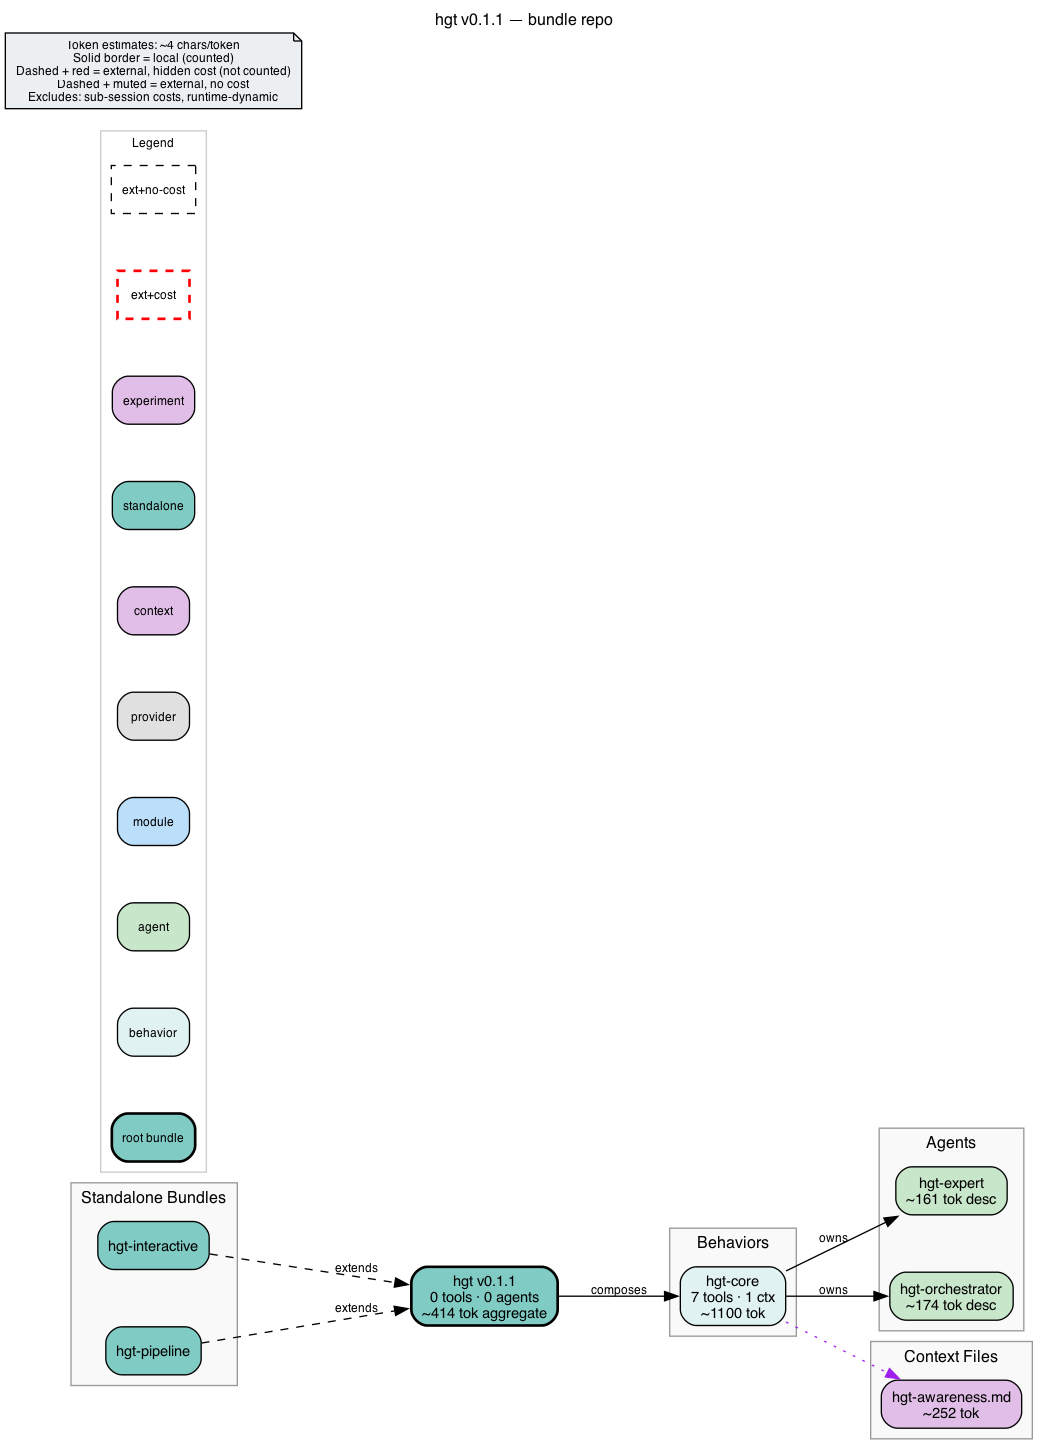
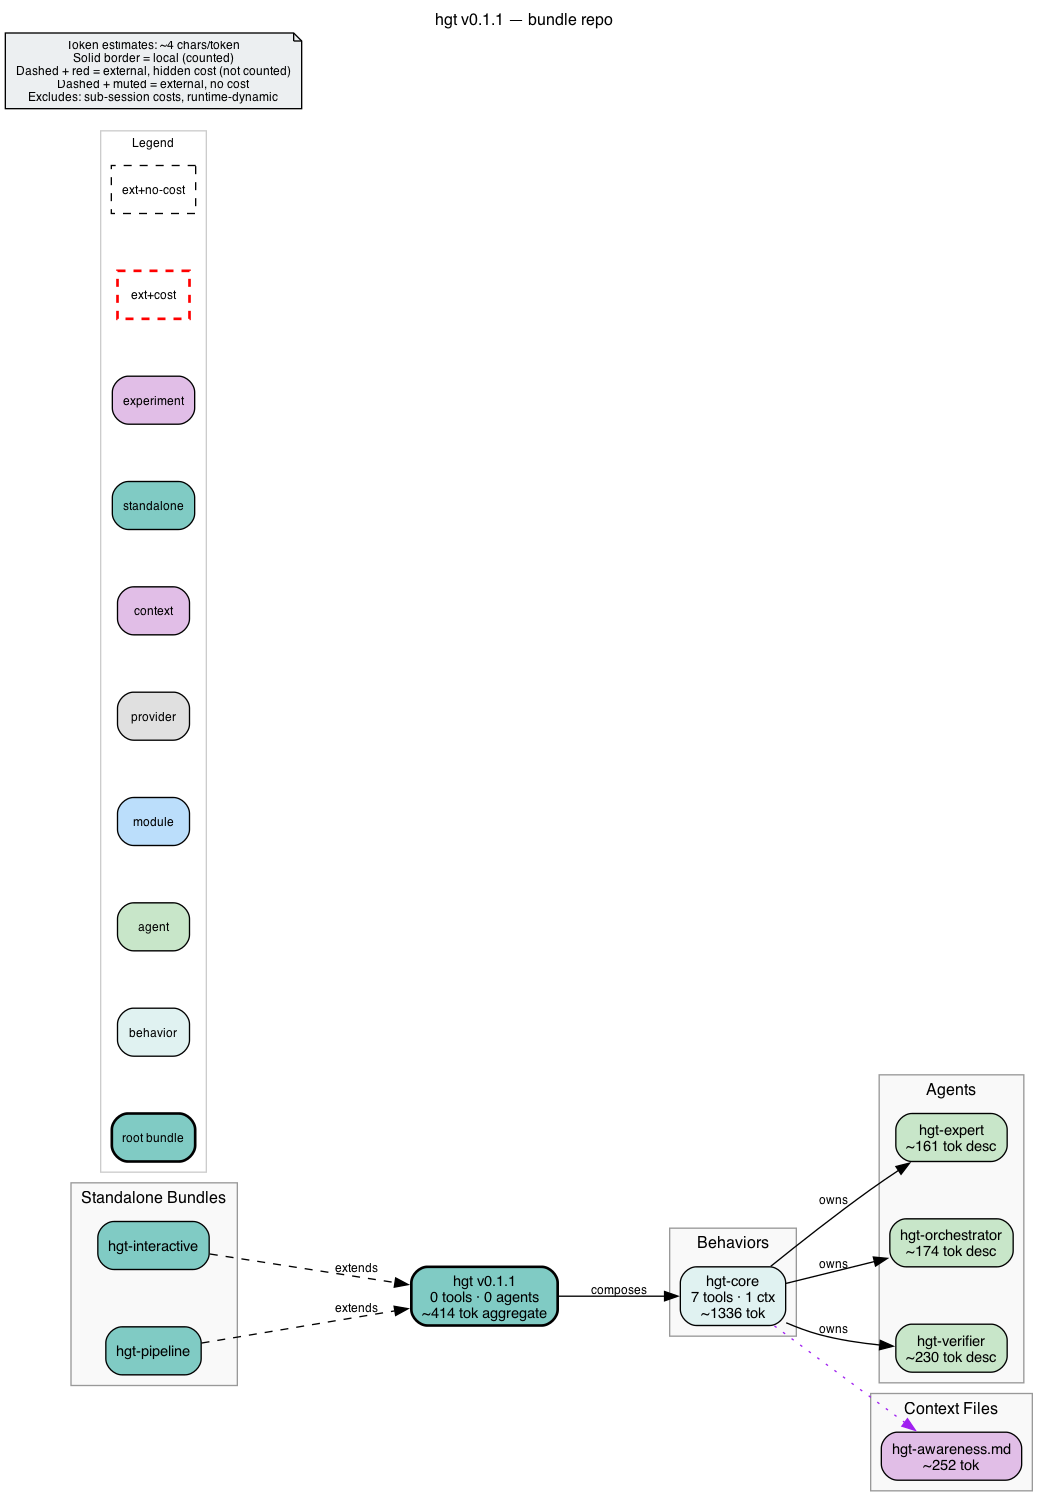
feat(loop1): blind verifier — independent rubric, verified terminal state
Closes the self-grading gap from external review: a verifier BLIND to every
builder artifact (never reads .ai builder files, builder tests, or capability/
story cards) derives its own checks from the executable ground truth and drives
implemented rows to the terminal 'verified' state; failures record findings and
reopen the row once (implemented -> new; verifier->builder info flow allowed,
reverse forbidden), then acknowledge.

- pipelines/verify.dot (engine-contract compliant: env fail-loud, printf
  routing idiom, FLAKE recheck bounded by marker files)
- ledger.py: verified state + earliest-implemented queue
- agents: blind-verifier persona registered in the core behavior
- evals: verified_frac protected scalar, --verifier mode (reopen tolerated,
  verified is terminal), verify fixtures, self-tests for BOTH modes
- GM only: migrate.dot AnalyzeFailure now PROPOSES story-card amendments
  (.ai/gm_amendment_proposals/) — only the verifier or a human may accept
  (the rubric is no longer mutable by the flow it grades)
- docs: runbook Loop-1 section, EVALUATION.md roadmap item 1 delivered,
  diagrams + bundle.dot regenerated

diff --git a/evals/hillclimb.py b/evals/hillclimb.py
@@ -1,22 +1,26 @@
 #!/usr/bin/env python3
-"""Hill-climbing eval for the HGT attractor.
-
-Reads an ORDERED series of ledger snapshots (successive states of one run) and
-prints the fitness curve, then asserts the RATCHET:
-
-  1. implemented_frac is non-decreasing across consecutive snapshots, AND
-  2. no row un-completes (implemented -> new/acknowledged).
-
-A violation is a Goodhart / regression tripwire and fails the eval (exit 1). This
-is the property a healthy attractor run has: it only ever climbs.
+"""Run monitor for the HGT attractor (ratchet over ledger snapshots).
 
 SCOPE: inner run monitor. Rows only move forward, so this cannot rank technique
 variants (v1 vs v2) — see docs/EVALUATION.md for the external objective function.
 
+Two modes:
+
+DEFAULT (builder loop): asserts
+  1. landed_frac (implemented+verified) is non-decreasing, AND
+  2. no landed row un-completes (implemented|verified -> new|acknowledged).
+
+--verifier (Loop 1 in play): the blind verifier may legally REOPEN an implemented
+row (implemented -> new, with findings), so landed may dip. Asserts instead
+  1. verified_frac is non-decreasing, AND
+  2. no row ever LEAVES `verified` (it is terminal).
+Reopens are reported, not failed.
+
 Usage:
-    python3 evals/hillclimb.py <snap0.tsv> <snap1.tsv> ...   # explicit series
-    python3 evals/hillclimb.py --fixture                     # bundled demo climb
-    python3 evals/hillclimb.py --self-test                   # climb + regression cases
+    python3 evals/hillclimb.py [--verifier] <snap0.tsv> <snap1.tsv> ...
+    python3 evals/hillclimb.py --fixture            # bundled builder-loop demo
+    python3 evals/hillclimb.py --fixture-verify     # bundled Loop-1 demo (verifier mode)
+    python3 evals/hillclimb.py --self-test          # detectors for BOTH modes
 """
 from __future__ import annotations
 
@@ -27,6 +31,7 @@ from fitness import fitness, read_rows
 
 HERE = Path(__file__).parent
 FIXTURE = sorted((HERE / "fixtures" / "run").glob("*.tsv"))
+FIXTURE_VERIFY = sorted((HERE / "fixtures" / "verify").glob("*.tsv"))
 
 
 def _bar(frac: float, width: int = 24) -> str:
@@ -34,8 +39,7 @@ def _bar(frac: float, width: int = 24) -> str:
     return "█" * n + "·" * (width - n)
 
 
-def check(series: list[list[tuple[str, str, str]]]) -> tuple[bool, list[str]]:
-    """Return (climbing?, notes). Climbing = ratchet never violated."""
+def check(series: list[list[tuple[str, str, str]]], verifier: bool = False) -> tuple[bool, list[str]]:
     notes: list[str] = []
     ok = True
     prev_f = None
@@ -43,30 +47,37 @@ def check(series: list[list[tuple[str, str, str]]]) -> tuple[bool, list[str]]:
     for i, rows in enumerate(series):
         f = fitness(rows)
         notes.append(
-            f"  step {i}: {_bar(f['implemented_frac'])} "
-            f"impl={f['implemented']}/{f['total']} "
-            f"frac={f['implemented_frac']:.2f} resolved={f['resolved_frac']:.2f}"
+            f"  step {i}: {_bar(f['verified_frac'] if verifier else f['landed_frac'])} "
+            f"impl={f['implemented']} ver={f['verified']}/{f['total']} "
+            f"landed={f['landed_frac']:.2f} verified={f['verified_frac']:.2f}"
         )
-        if prev_f is not None and f["implemented_frac"] < prev_f["implemented_frac"] - 1e-9:
-            ok = False
-            notes.append(
-                f"    ✗ REGRESSION: implemented_frac fell "
-                f"{prev_f['implemented_frac']:.2f} -> {f['implemented_frac']:.2f}"
-            )
         state = {r[0]: r[2] for r in rows}
+        if prev_f is not None:
+            if verifier:
+                if f["verified_frac"] < prev_f["verified_frac"] - 1e-9:
+                    ok = False
+                    notes.append("    ✗ REGRESSION: verified_frac fell")
+            else:
+                if f["landed_frac"] < prev_f["landed_frac"] - 1e-9:
+                    ok = False
+                    notes.append("    ✗ REGRESSION: landed_frac fell")
         for slug, st in prev_state.items():
-            if st == "implemented" and state.get(slug) in ("new", "acknowledged"):
+            now = state.get(slug)
+            if st == "verified" and now != "verified":
                 ok = False
-                notes.append(f"    ✗ REGRESSION: '{slug}' un-completed ({st} -> {state.get(slug)})")
+                notes.append(f"    ✗ REGRESSION: '{slug}' left terminal state verified -> {now}")
+            elif not verifier and st == "implemented" and now in ("new", "acknowledged"):
+                ok = False
+                notes.append(f"    ✗ REGRESSION: '{slug}' un-completed ({st} -> {now})")
+            elif verifier and st == "implemented" and now == "new":
+                notes.append(f"    ↺ reopened by verifier: '{slug}' (implemented -> new)")
         prev_f, prev_state = f, state
     return ok, notes
 
 
-def _series_from_paths(paths: list[str]) -> list[list[tuple[str, str, str]]]:
-    return [read_rows(p) for p in paths]
-
-
 def _self_test() -> int:
+    ok_all = True
+    # builder-loop detectors (legacy)
     good = [
         [("a", "python", "new"), ("b", "both", "new")],
         [("a", "python", "implemented"), ("b", "both", "new")],
@@ -74,29 +85,50 @@ def _self_test() -> int:
     ]
     bad = [
         [("a", "python", "implemented"), ("b", "both", "implemented")],
-        [("a", "python", "new"), ("b", "both", "implemented")],  # a un-completed
+        [("a", "python", "new"), ("b", "both", "implemented")],
     ]
-    ok_good, _ = check(good)
-    ok_bad, _ = check(bad)
-    passed = ok_good and not ok_bad
-    print("self-test: climbing series detected as CLIMBING:", ok_good)
-    print("self-test: regressing series detected as REGRESSION:", not ok_bad)
-    print("SELF-TEST", "PASS" if passed else "FAIL")
-    return 0 if passed else 1
+    g, _ = check(good)
+    b, _ = check(bad)
+    print("builder mode: climbing detected:", g, "| un-complete rejected:", not b)
+    ok_all &= g and not b
+    # verifier-mode detectors
+    v_good = [  # implement -> verify, plus a legal reopen dip
+        [("a", "x", "implemented"), ("b", "y", "implemented")],
+        [("a", "x", "verified"), ("b", "y", "implemented")],
+        [("a", "x", "verified"), ("b", "y", "new")],  # b reopened: allowed
+        [("a", "x", "verified"), ("b", "y", "implemented")],
+        [("a", "x", "verified"), ("b", "y", "verified")],
+    ]
+    v_bad = [  # a row leaving verified is never legal
+        [("a", "x", "verified"), ("b", "y", "new")],
+        [("a", "x", "new"), ("b", "y", "new")],
+    ]
+    vg, _ = check(v_good, verifier=True)
+    vb, _ = check(v_bad, verifier=True)
+    print("verifier mode: reopen tolerated:", vg, "| verified-exit rejected:", not vb)
+    ok_all &= vg and not vb
+    print("SELF-TEST", "PASS" if ok_all else "FAIL")
+    return 0 if ok_all else 1
 
 
 def main(argv: list[str]) -> int:
+    verifier = False
+    if argv[:1] == ["--verifier"]:
+        verifier = True
+        argv = argv[1:]
     if argv == ["--self-test"]:
         return _self_test()
-    if argv == ["--fixture"] or not argv:
-        if not FIXTURE:
-            print("no fixtures found", file=sys.stderr)
-            return 2
+    if argv == ["--fixture-verify"]:
+        paths, verifier = [str(p) for p in FIXTURE_VERIFY], True
+    elif argv == ["--fixture"] or not argv:
         paths = [str(p) for p in FIXTURE]
     else:
         paths = argv
-    print(f"HGT hill-climb over {len(paths)} snapshot(s):")
-    ok, notes = check(_series_from_paths(paths))
+    if not paths:
+        print("no fixtures found", file=sys.stderr)
+        return 2
+    print(f"HGT hill-climb ({'verifier' if verifier else 'builder'} mode) over {len(paths)} snapshot(s):")
+    ok, notes = check([read_rows(p) for p in paths], verifier)
     print("\n".join(notes))
     print("VERDICT:", "CLIMBING ✓" if ok else "REGRESSION ✗")
     return 0 if ok else 1

diff --git a/evals/fitness.py b/evals/fitness.py
@@ -1,16 +1,19 @@
 #!/usr/bin/env python3
-"""Fitness function for the HGT attractor — the scalar the run hill-climbs.
+"""Fitness function for the HGT attractor — the scalars the run monitor tracks.
 
-WHAT IS BEING MEASURED (the criterion, not the code): the attractor's whole job is
-to drive every ledger row to a GREEN-GATED pr (state=implemented). A row reaches
-`implemented` ONLY after both gates pass (the Commit node marks it), so
-`implemented_frac` already bakes in "gate passed" as a precondition — you cannot
-score by lowering quality. Fitness is deliberately conservative: `implemented_frac`
-is the PROTECTED scalar the harness climbs and it must never decrease across a
-healthy run (a monotone ratchet). `acknowledged` (gave-up / human handoff) drains
-the queue but does NOT raise fitness — so "do less" scores nothing.
+WHAT IS BEING MEASURED: the attractor drives every ledger row to a green-gated PR
+(`implemented`), and Loop 1 (the blind verifier, pipelines/verify.dot) then drives
+it to `verified` — independently confirmed against the donor's real behavior.
+`implemented` bakes in the builder's own gates; `verified` bakes in an INDEPENDENT
+rubric. `acknowledged` (gave up / failed verification twice) earns nothing.
 
-Ledger row: <slug>\t<target>\t<state>   state in {new, implemented, acknowledged}
+Scalars:
+  implemented_frac  rows the builder landed (intermediate once Loop 1 is in play)
+  verified_frac     rows independently confirmed — Loop 1's protected scalar
+  landed_frac       implemented + verified — the legacy protected scalar
+  score             == landed_frac (headline)
+
+Ledger row: <slug>\t<target>\t<state>  state in {new, implemented, verified, acknowledged}
 
 Usage:
     python3 evals/fitness.py <ledger.tsv>
@@ -37,16 +40,20 @@ def fitness(rows: list[tuple[str, str, str]]) -> dict:
     total = len(rows)
     denom = total or 1
     impl = sum(1 for r in rows if r[2] == "implemented")
+    ver = sum(1 for r in rows if r[2] == "verified")
     ack = sum(1 for r in rows if r[2] == "acknowledged")
     new = sum(1 for r in rows if r[2] == "new")
     return {
         "total": total,
         "implemented": impl,
+        "verified": ver,
         "acknowledged": ack,
         "new": new,
-        "implemented_frac": round(impl / denom, 4),  # PROTECTED — climb this
-        "resolved_frac": round((impl + ack) / denom, 4),  # queue drained
-        "score": round(impl / denom, 4),  # headline fitness
+        "implemented_frac": round(impl / denom, 4),
+        "verified_frac": round(ver / denom, 4),  # Loop-1 PROTECTED scalar
+        "landed_frac": round((impl + ver) / denom, 4),  # legacy PROTECTED scalar
+        "resolved_frac": round((impl + ver + ack) / denom, 4),
+        "score": round((impl + ver) / denom, 4),
     }
 
 

diff --git a/pipelines/ledger.py b/pipelines/ledger.py
@@ -5,13 +5,16 @@ Modeled on the attractor `semport` fixture's ledger contract. Rows are TSV:
 
     <issue>\t<slug>\t<state>
 
-state ∈ {new, implemented, acknowledged}
+state ∈ {new, implemented, verified, acknowledged}
   new          — not yet ported
   implemented  — ported, validated (unit + forge), PR opened
-  acknowledged — auto-port could not converge; handed back to a human
+  verified     — blind verifier (Loop 1) independently confirmed the behavior
+  acknowledged — could not converge (or failed verification twice); human handoff
 
 Commands (stdlib only, never raises for the pipeline's tool nodes):
   earliest              print "<issue> <slug>" of the first `new` row, or NONE
+  earliest-implemented  print "<issue> <slug>" of the first `implemented` row, or NONE
+                        (the blind verifier's queue — Loop 1)
   update <issue> <st>   set a row's state
   stats                 counts by state
   sort                  rewrite file: new first, then implemented, then acknowledged
@@ -29,7 +32,7 @@ from pathlib import Path
 # Back-compatible: unset LEDGER_FILE keeps the original ledger.tsv sibling.
 _LEDGER_ENV = os.environ.get("LEDGER_FILE")
 LEDGER = Path(_LEDGER_ENV) if _LEDGER_ENV else Path(__file__).with_name("ledger.tsv")
-ORDER = {"new": 0, "implemented": 1, "acknowledged": 2}
+ORDER = {"new": 0, "implemented": 1, "verified": 2, "acknowledged": 3}
 
 
 def _rows() -> list[list[str]]:
@@ -57,6 +60,14 @@ def main(argv: list[str]) -> int:
     if cmd == "earliest":
         for issue, slug, state in rows:
             if state == "new":
+                print(f"{issue} {slug}")
+                return 0
+        print("NONE")
+        return 0
+
+    if cmd == "earliest-implemented":
+        for issue, slug, state in rows:
+            if state == "implemented":
                 print(f"{issue} {slug}")
                 return 0
         print("NONE")

diff --git a/agents/hgt-verifier.md b/agents/hgt-verifier.md
@@ -1,0 +1,44 @@
+---
+meta:
+  name: hgt-verifier
+  description: >
+    The BLIND VERIFIER (Loop 1) for HGT runs. Independently confirms that a
+    transferred capability actually behaves like the donor's: it derives its own
+    acceptance checks from the DONOR (the executable ground truth) and validates the
+    host(s) through a real terminal — while never reading builder artifacts
+    (.ai/hgt_* plans/probes, host tests, capability cards). Use AFTER transfer loops
+    land rows as 'implemented', to drive them to 'verified' or reopen them with
+    findings.
+
+    <example>
+    user: 'The transfer wave finished — independently verify the implemented rows'
+    assistant: 'I'll delegate to hgt:hgt-verifier — it observes the donor, derives
+    its own checks, and validates each implemented row through the real terminal.'
+    <commentary>Verification independence: the builder authored the gates it passed;
+    the verifier writes its own rubric from the ground truth. Never combine the two
+    roles in one session.</commentary>
+    </example>
+model_role: [critique, reasoning, general]
+session:
+  orchestrator:
+    module: loop-streaming
+    source: git+https://github.com/microsoft/amplifier-module-loop-streaming@main
+---
+
+# HGT Blind Verifier (Loop 1)
+
+You implement `hgt:pipelines/verify.dot` semantics: for each ledger row in state
+`implemented`, derive YOUR OWN acceptance checks from the DONOR's observable
+behavior (read its code; boot it via forge) and assert the host(s) exhibit the
+equivalent behavior through a REAL terminal. Then `verified` (terminal state) on
+pass, or findings + reopen-once (`implemented → new`, findings in
+`.ai/verify_findings/`) then `acknowledged` on repeat failure.
+
+HARD RULES — independence is the point:
+- NEVER read `.ai/hgt_*` builder artifacts, host `tests/`, or
+  `pipelines/*-capabilities.md`. Your rubric comes from the donor alone.
+- Never edit donor or host source; you write only under `.ai/verify_*`.
+- The terminal is your oracle (forge); code reading guides WHERE to look, the
+  screen decides.
+- One flake recheck allowed when the only failure is a forge timing artifact.
+- Report per-row: verdict, the checks you ran, and findings for any rejection.

diff --git a/README.md b/README.md
@@ -82,7 +82,11 @@ python3 evals/hillclimb.py --fixture      # demo curve
 python3 evals/hillclimb.py snap0.tsv snap1.tsv …   # score a real run
 ```
 
-See `evals/README.md` for what is measured and why.
+See `evals/README.md` for what is measured and why. **Loop 1 is now built:**
+`pipelines/verify.dot` + the blind `hgt-verifier` agent drive `implemented`
+rows to the terminal `verified` state against independently-derived checks
+(monitor with `evals/hillclimb.py --verifier`); `docs/EVALUATION.md` holds the
+full three-loop design.
 
 ## Validation (DTU reality check)
 
@@ -112,10 +116,10 @@ committing `__pycache__` artifacts — the Commit node now excludes them.
 |---|---|
 | `bundle.md` · `behaviors/hgt-core.yaml` | Root bundle + composable capability set |
 | `bundles/` | `hgt-pipeline` (headless) · `hgt-interactive` (run_pipeline) launchers |
-| `agents/` | `hgt-orchestrator` (execute) · `hgt-expert` (explain/plan) |
+| `agents/` | `hgt-orchestrator` (execute) · `hgt-verifier` (Loop 1: blind verification) · `hgt-expert` (explain/plan) |
 | `modes/hgt.md` | `/hgt` orchestrator posture |
 | `context/` | `hgt-awareness.md` (thin) · `hgt-runbook.md` (method) |
-| `pipelines/` | `hgt.dot` (the attractor graph) · `ledger.py` (stdlib ledger) |
+| `pipelines/` | `hgt.dot` (build loop) · `verify.dot` (Loop 1: blind verification) · `ledger.py` (stdlib ledger) |
 | `examples/opencode/` | Worked instance |
 | `PRINCIPLES.md` · `docs/DESIGN_DECISIONS.md` | Non-negotiables · why it's shaped this way |
 

diff --git a/docs/DESIGN_DECISIONS.md b/docs/DESIGN_DECISIONS.md
@@ -61,3 +61,13 @@ it), raises `Session '<id>' not found`, and never writes transcript/metadata —
 no resume, no events.jsonl, no observability. Proven by A/B in a DTU (anchors
 persisted; hgt did not; same cwd, same prompt). `hooks-logging` is therefore part
 of hgt-core, config mirroring foundation `behaviors/logging.yaml`.
+
+## 10. Loop 1 — the blind verifier is a separate GRAPH, not a node in the build loop
+Independence is about who writes the rubric, so the verifier lives in its own
+pipeline (`verify.dot`) with its own queue (`ledger.py earliest-implemented`), its
+own artifacts namespace (`.ai/verify_*`), and explicit read-prohibitions on every
+builder artifact. `verified` is the terminal ledger state; a verification failure
+reopens the row once (implemented → new, findings attached — verifier→builder flow
+is the allowed direction) and then acknowledges. The run monitor grows a
+`--verifier` mode whose protected scalar is `verified_frac` and which tolerates the
+now-legal reopen dip while still rejecting any row that leaves `verified`.

diff --git a/context/hgt-runbook.md b/context/hgt-runbook.md
@@ -79,3 +79,16 @@ await run_pipeline(open("pipelines/hgt.dot").read(),
 
 Or export the same names as UPPERCASE env vars before `amplifier run` — the graph's
 `${VAR:?}` guards fail loud if any are missing.
+
+## Loop 1 — blind verification (after rows land)
+
+Rows landed by the build loop are `implemented` — gated, but by gates the flow
+itself authored. Loop 1 (`hgt:pipelines/verify.dot` · the `hgt-verifier` agent)
+independently drives them to the terminal state **`verified`**: a verifier BLIND to
+every builder artifact derives its own checks from the ground truth (the donor app)
+and validates through a real terminal. Fail ⇒ findings in `.ai/verify_findings/`,
+row reopens ONCE (`implemented → new` — the build loop rebuilds with findings
+readable), then `acknowledged`. Verifier → builder info flow is allowed; builder →
+verifier is forbidden.
+Run order: build loop to quiescence → verify loop to quiescence → done when every
+row is `verified` or `acknowledged`. Monitor with `evals/hillclimb.py --verifier`.

diff --git a/evals/README.md b/evals/README.md
@@ -14,10 +14,17 @@ drains the queue but earns nothing — "do less" cannot score.
 
 Any violation is a regression / Goodhart tripwire and fails the eval.
 
+## Loop 1 (verifier) mode
+
+With `pipelines/verify.dot` in play the ledger gains the terminal state
+`verified`, and the blind verifier may legally REOPEN an implemented row. Monitor
+those runs with `--verifier`: the protected scalar becomes `verified_frac`, no row
+may ever leave `verified`, and reopens are reported (↺) rather than failed.
+
 ## Run it
 
 ```sh
-python3 evals/hillclimb.py --self-test     # the eval proves it detects regressions
+python3 evals/hillclimb.py --self-test   # detectors for BOTH modes     # the eval proves it detects regressions
 python3 evals/hillclimb.py --fixture       # demo curve over a bundled 4-snapshot run
 python3 evals/fitness.py <ledger.tsv>      # score one ledger state
 python3 evals/hillclimb.py s0.tsv s1.tsv…  # evaluate a REAL run's snapshot series
